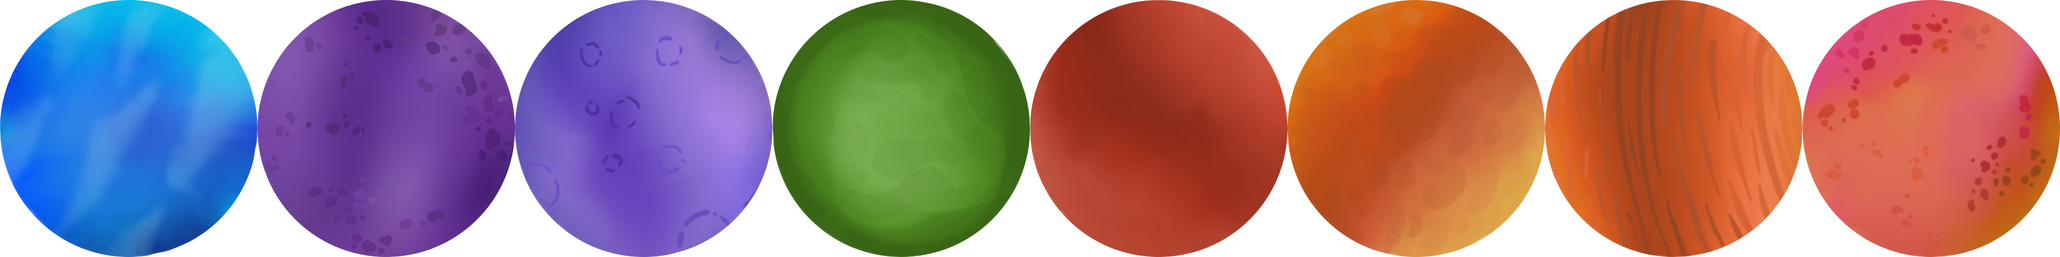
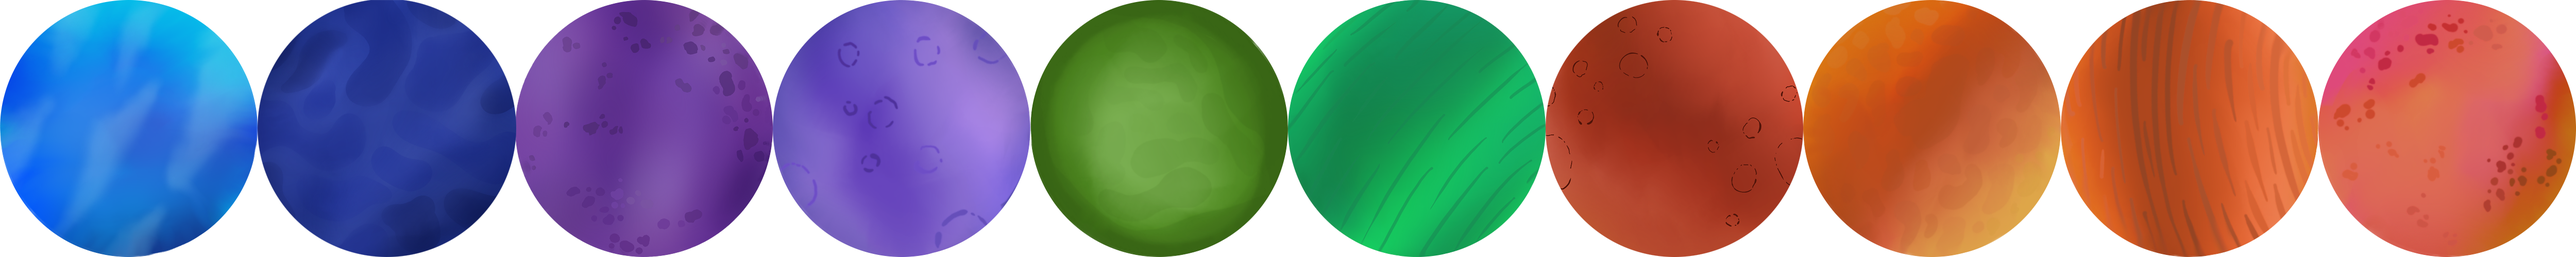
Added planet collision
the player will now bounce off any planet upon collision and produce a camera shake effect

diff --git a/camera.py b/camera.py
@@ -1,6 +1,7 @@
 from typing import Any
 import math
 import pygame
+import random
 
 class Camera:
     def __init__(self, screen):
@@ -16,50 +17,32 @@ class Camera:
         self.Camera_centre_x = self.camera_area.x  - (self.screen_width // 2)
         self.Camera_centre_y = self.camera_area.y  - (self.screen_height / 2)
 
-        # Camera settings
-        self.camera_swithinpeed = 3
-        self.camera_limit = 150  # Maximum distance the camera can lag behind
+        # Shake parameters
+        self.shake_duration = 0
+        self.shake_strength = 0
 
+        # Target position for the camera
+        self.target_x = 0
+        self.target_y = 0
 
     def moveCamera(self, x, y):
-        centre_x = x
-        centre_y = y
+        self.target_x = x - (self.screen_width / 2)
+        self.target_y = y - (self.screen_height / 2)
 
-        self.camera_area.x = centre_x - (self.screen_width/2)
-        self.camera_area.y = centre_y - (self.screen_height/2)
+    def update(self):
+        # Apply shake effect
+        self.apply_shake()
 
-    def update_camera(self, player_x, player_y):
-        # Calculate the center of the camera
-        cam_centre_x = self.camera_area.x + self.screen_width // 2
-        cam_centre_y = self.camera_area.y + self.screen_height // 2
+        # Set the camera position
+        self.camera_area.x = self.target_x
+        self.camera_area.y = self.target_y
 
-        # Calculate the difference between the player and the camera center
-        diff_x = player_x - cam_centre_x
-        diff_y = player_y - cam_centre_y
-
-        # Define a smoothing factor (0 < smoothing < 1)
-        smoothing = 0.1
-
-        # Update camera position based on player position
-        if abs(diff_x) > self.camera_limit:
-            self.camera_area.x += diff_x - (self.camera_limit if diff_x > 0 else -self.camera_limit)
-        else:
-            self.camera_area.x += diff_x * smoothing  # Smoothly move towards the player
-
-        if abs(diff_y) > self.camera_limit:
-            self.camera_area.y += diff_y - (self.camera_limit if diff_y > 0 else -self.camera_limit)
-        else:
-            self.camera_area.y += diff_y * smoothing  # Smoothly move towards
-
-
-    def drawImage(self,image, x, y, paralex = 1):
+    def drawImage(self, image, x, y, paralex=1):
         coords = self.getScreenCoords(x, y, paralex)
         self.screen.blit(image, coords)
 
-    
-    def drawOffsetImage(self,image, x, y, offset): 
-        """Offset value is a fraction. Value of 1 equls no offset.
-        """
+    def drawOffsetImage(self, image, x, y, offset):
+        """Offset value is a fraction. Value of 1 equals no offset."""
         image_x, image_y = self.getScreenCoords(x, y)
         imagewidth = image.get_width()
         imageheight = image.get_height()
@@ -75,17 +58,17 @@ class Camera:
         newCentreX = centreScreenX - offsetX 
         newCentreY = centreScreenY - offsetY 
 
-        newX =  newCentreX - imagewidth / 2
+        newX = newCentreX - imagewidth / 2
         newY = newCentreY - imageheight / 2
 
         offsetCoords = (newX, newY)
         self.screen.blit(image, offsetCoords)
 
-    def drawTiles(self, image, paralex = 1):
+    def drawTiles(self, image, paralex=1):
         screen_x = self.camera_area.x // paralex
         screen_y = self.camera_area.y // paralex
 
-        image_width = image.get_width() 
+        image_width = image.get_width()
         image_height = image.get_height()
 
         x1 = math.floor(screen_x / image_width)
@@ -93,14 +76,27 @@ class Camera:
         x2 = math.ceil((screen_x + self.camera_area.width) / image_width)
         y2 = math.ceil((screen_y + self.camera_area.height) / image_height)
 
-        for x in range(x1,x2):
-            for y in range(y1,y2):
+        for x in range(x1, x2):
+            for y in range(y1, y2):
                 self.drawImage(image, x * image_width, y * image_height, paralex)
-    
-    def drawCircle(self, colour, pos, radius, paralex = 1):
+
+    def drawCircle(self, colour, pos, radius, paralex=1):
         coords = self.getScreenCoords(pos[0], pos[1], paralex)
         pygame.draw.circle(self.screen, colour, coords, radius, 1)
 
-    def getScreenCoords(self, x, y, paralex = 1):
+    def getScreenCoords(self, x, y, paralex=1):
         return (x - (self.camera_area.x / paralex), y - (self.camera_area.y / paralex))
 
+    def shake_camera(self, strength, duration):
+        """Shake the camera with a given strength and duration."""
+        self.shake_strength = strength
+        self.shake_duration = duration
+
+    def apply_shake(self):
+        """Apply the shake effect to the camera."""
+        if self.shake_duration > 0:
+            shake_x = random.randint(-self.shake_strength, self.shake_strength)
+            shake_y = random.randint(-self.shake_strength, self.shake_strength)
+            self.target_x += shake_x
+            self.target_y += shake_y
+            self.shake_duration -= 1

diff --git a/spaceship.py b/spaceship.py
@@ -3,7 +3,7 @@ import math
 from audio_manager import AudioManager
 
 class Spaceship(pygame.sprite.Sprite):
-    def __init__(self, spaceship_image, trail_image, screen_width, screen_height, camera):
+    def __init__(self, spaceship_image, trail_image, screen_width, screen_height, camera, planets_dict):
         super().__init__()
         
         self.camera = camera
@@ -14,6 +14,7 @@ class Spaceship(pygame.sprite.Sprite):
         self.friction = 0
         self.turn_speed = 3
         self.max_speed = 20
+        self.speed = 0
 
         self.audio_manager = AudioManager()
 
@@ -37,6 +38,8 @@ class Spaceship(pygame.sprite.Sprite):
         self.trails = []
         self.frame_counter = 0
 
+        self.planets_dict = planets_dict
+
     def rotate(self, angle_change):
         self.angle -= angle_change 
         self.image = pygame.transform.rotate(self.spaceship_image, self.angle)
@@ -49,15 +52,44 @@ class Spaceship(pygame.sprite.Sprite):
         self.velocity_x += self.acceleration * math.sin(rad_angle)
 
         # Limit the speed
-        speed = math.sqrt(self.velocity_x**2 + self.velocity_y**2)
-        if speed > self.max_speed:
-            scale = self.max_speed / speed
+        self.speed = math.sqrt(self.velocity_x**2 + self.velocity_y**2)
+        if self.speed > self.max_speed:
+            scale = self.max_speed / self.speed
             self.velocity_x *= scale
             self.velocity_y *= scale
 
     def apply_gravity(self, x, y):
         self.velocity_x += x
         self.velocity_y += y
+
+    def check_collision(self):
+        '''Check distance to each planet and bounce if too close'''
+         
+        for planet_key, planet_data in self.planets_dict.items():
+            planet_center_x = planet_data['x'] + planet_data['width'] // 2
+            planet_center_y = planet_data['y'] + planet_data['height'] // 2
+            planet_radius = max(planet_data['width'], planet_data['height']) // 2
+            y_distance = self.y - planet_center_y
+            x_distance = self.x - planet_center_x
+            distance_to_planet = math.sqrt((x_distance)**2 + (y_distance)**2)
+            
+            if distance_to_planet < planet_radius + 25:
+                self.camera.shake_camera(strength=5, duration=15)  
+                self.camera.apply_shake()  
+                # Calculate the normal vector at the point of collision
+                normal_x = x_distance / distance_to_planet
+                normal_y = y_distance / distance_to_planet
+
+                # Calculate the dot product of the velocity vector and the normal vector
+                dot_product = self.velocity_x * normal_x + self.velocity_y * normal_y
+
+                # Calculate the reflection vector
+                reflection_x = self.velocity_x - 2 * dot_product * normal_x
+                reflection_y = self.velocity_y - 2 * dot_product * normal_y
+
+                # Apply the reflection vector to the ship's velocity
+                self.velocity_x = reflection_x 
+                self.velocity_y = reflection_y 
 
     def update(self):
         self.frame_counter += 1
@@ -77,6 +109,9 @@ class Spaceship(pygame.sprite.Sprite):
         self.velocity_y *= (1 - self.friction)
         self.x -= self.velocity_x
         self.y -= self.velocity_y
+
+        # Check for collisions
+        self.check_collision()
 
         self.image = pygame.transform.rotate(self.spaceship_image, self.angle)
         self.rect = self.image.get_rect(center=(self.x, self.y))
@@ -121,7 +156,6 @@ class Spaceship(pygame.sprite.Sprite):
             self.audio_manager.play_boost_sound()
         else:
             self.audio_manager.stop_boost_sound()
-
 
     def draw(self):
         for trail in self.trails:

diff --git a/planet.py b/planet.py
@@ -20,7 +20,7 @@ class Planets(pygame.sprite.Sprite):
         self.planet_rect = self.planet_image.get_rect()
         self.planet_distance = 0
 
-        self.total_planets = 8 #how many images are in the sprite sheet
+        self.total_planets = 10 #how many images are in the sprite sheet
         self.total_effects = 4
         self.planet_image_width = self.planet_image.get_width()
         self.effect_image_width = self.effect_image.get_width()
@@ -57,7 +57,7 @@ class Planets(pygame.sprite.Sprite):
             self.effect_img.append(self.effect_image.subsurface(self.each_effect_img))
 
         # Assign effects to planets
-        effect_assignments = [0, 1, 1, 2, 3, 3, 3, 3]
+        effect_assignments = [0, 0, 1, 1, 2, 2, 3, 3, 3, 3]
         for planet_key, planet_data in self.planets_dict.items():
             for i, effect_index in enumerate(effect_assignments):
                 if planet_data['image_number'] == i:

diff --git a/main.py b/main.py
@@ -31,10 +31,10 @@ SPACESHIP_IMG = pygame.transform.scale(SPACESHIP_IMG, (50, 50))
 
 # Create class instance
 camera = Camera(screen)
-spaceship = Spaceship(SPACESHIP_IMG, BOOST_IMG, screen_width, screen_height, camera)
 background = Background(background_img, screen_width, screen_height, camera)
 pause_menu = PauseMenu(screen_width, screen_height)
 planets = Planets(PLANETS_IMG, EFFECT_IMG, camera)
+spaceship = Spaceship(SPACESHIP_IMG, BOOST_IMG, screen_width, screen_height, camera, planets.planets_dict)
 
 # Main game loop
 running = True
@@ -70,6 +70,7 @@ while running:
         spaceship.apply_gravity(grav[0], grav[1])
 
         spaceship.update()
+        camera.update()
 
     background.draw()
     planets.draw()
